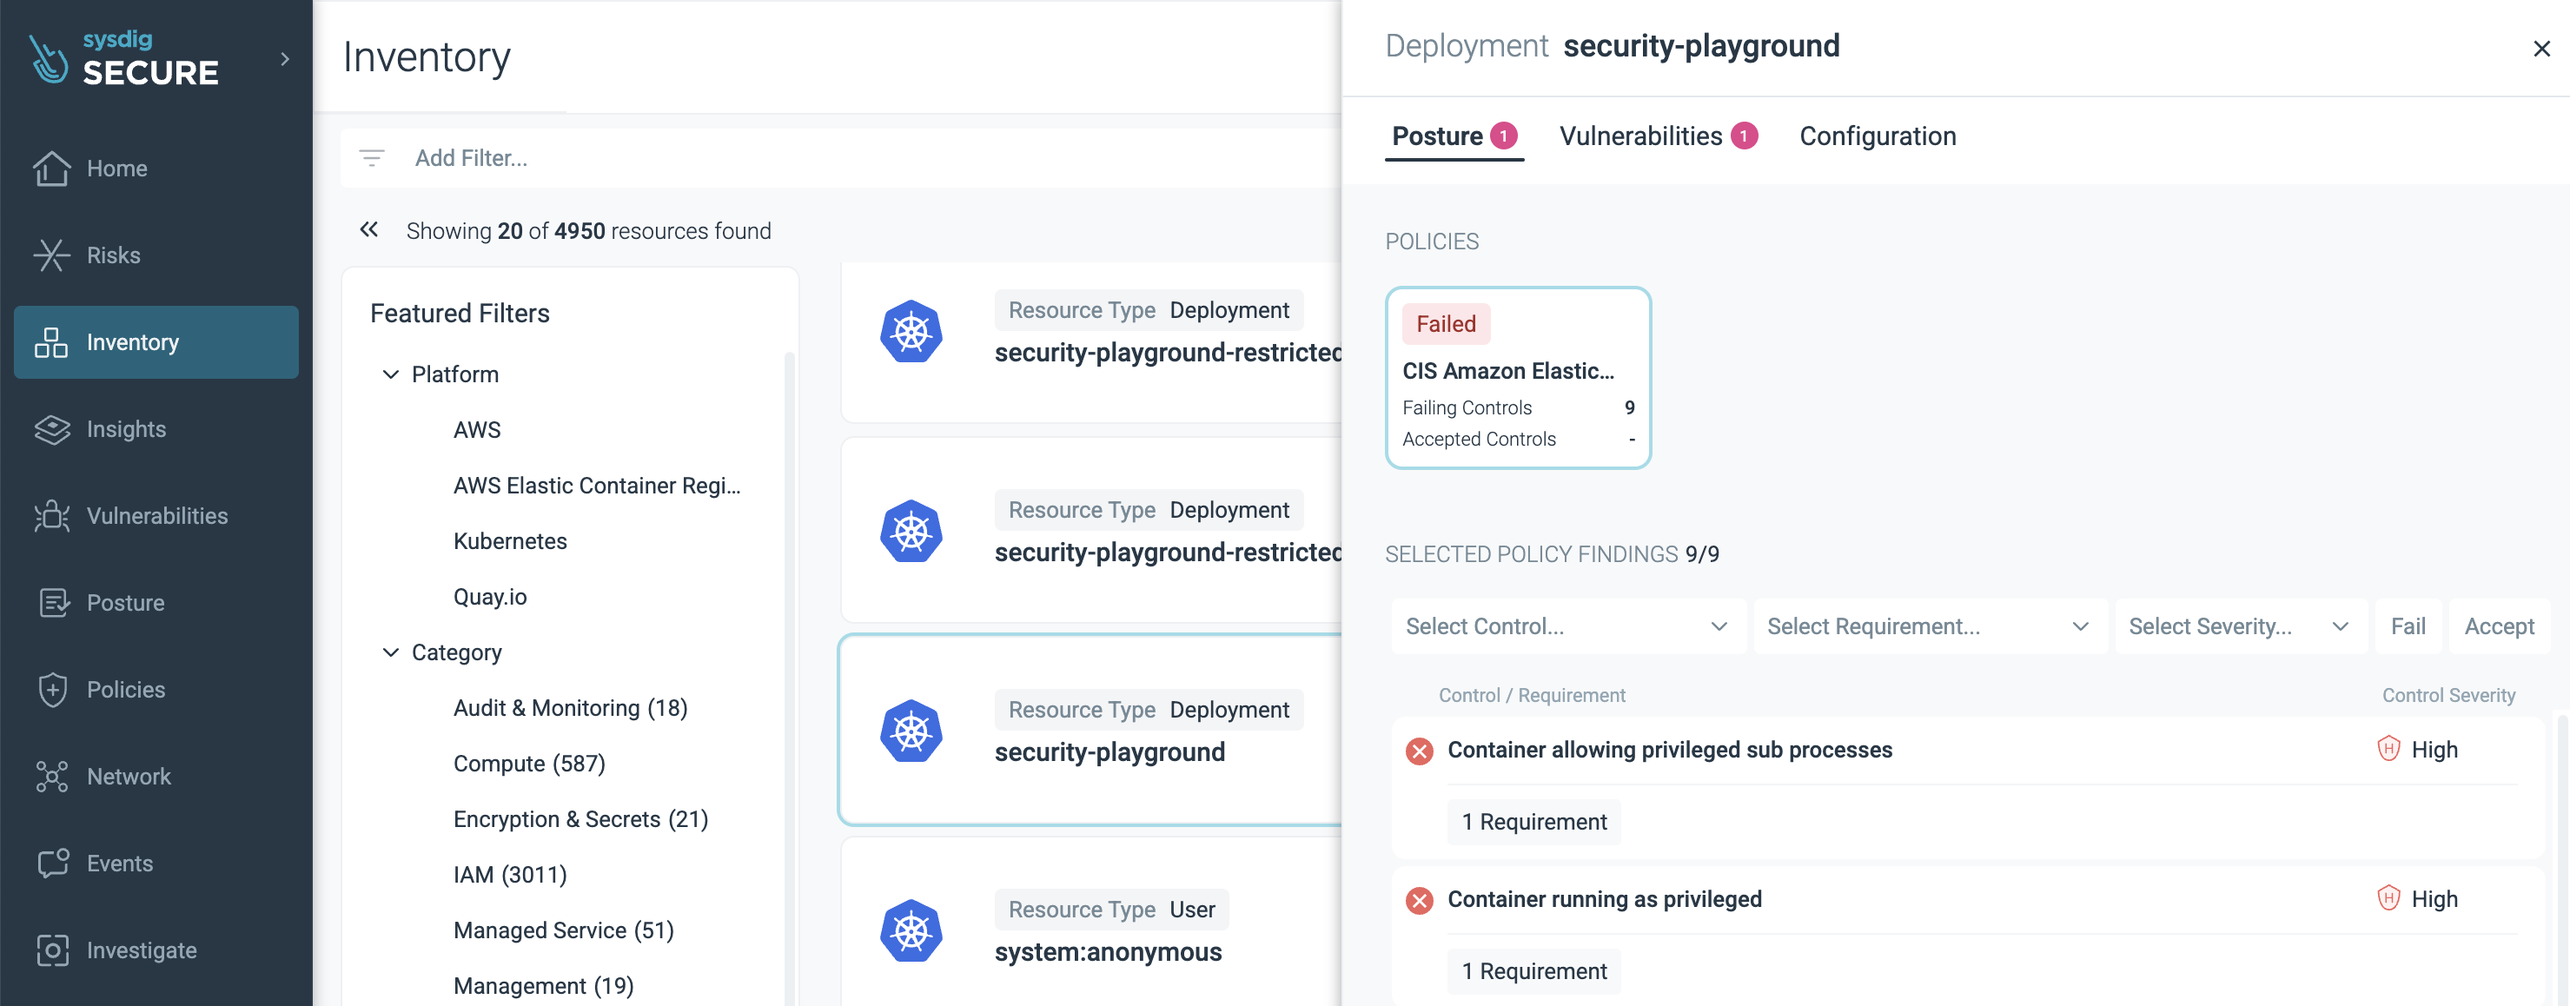
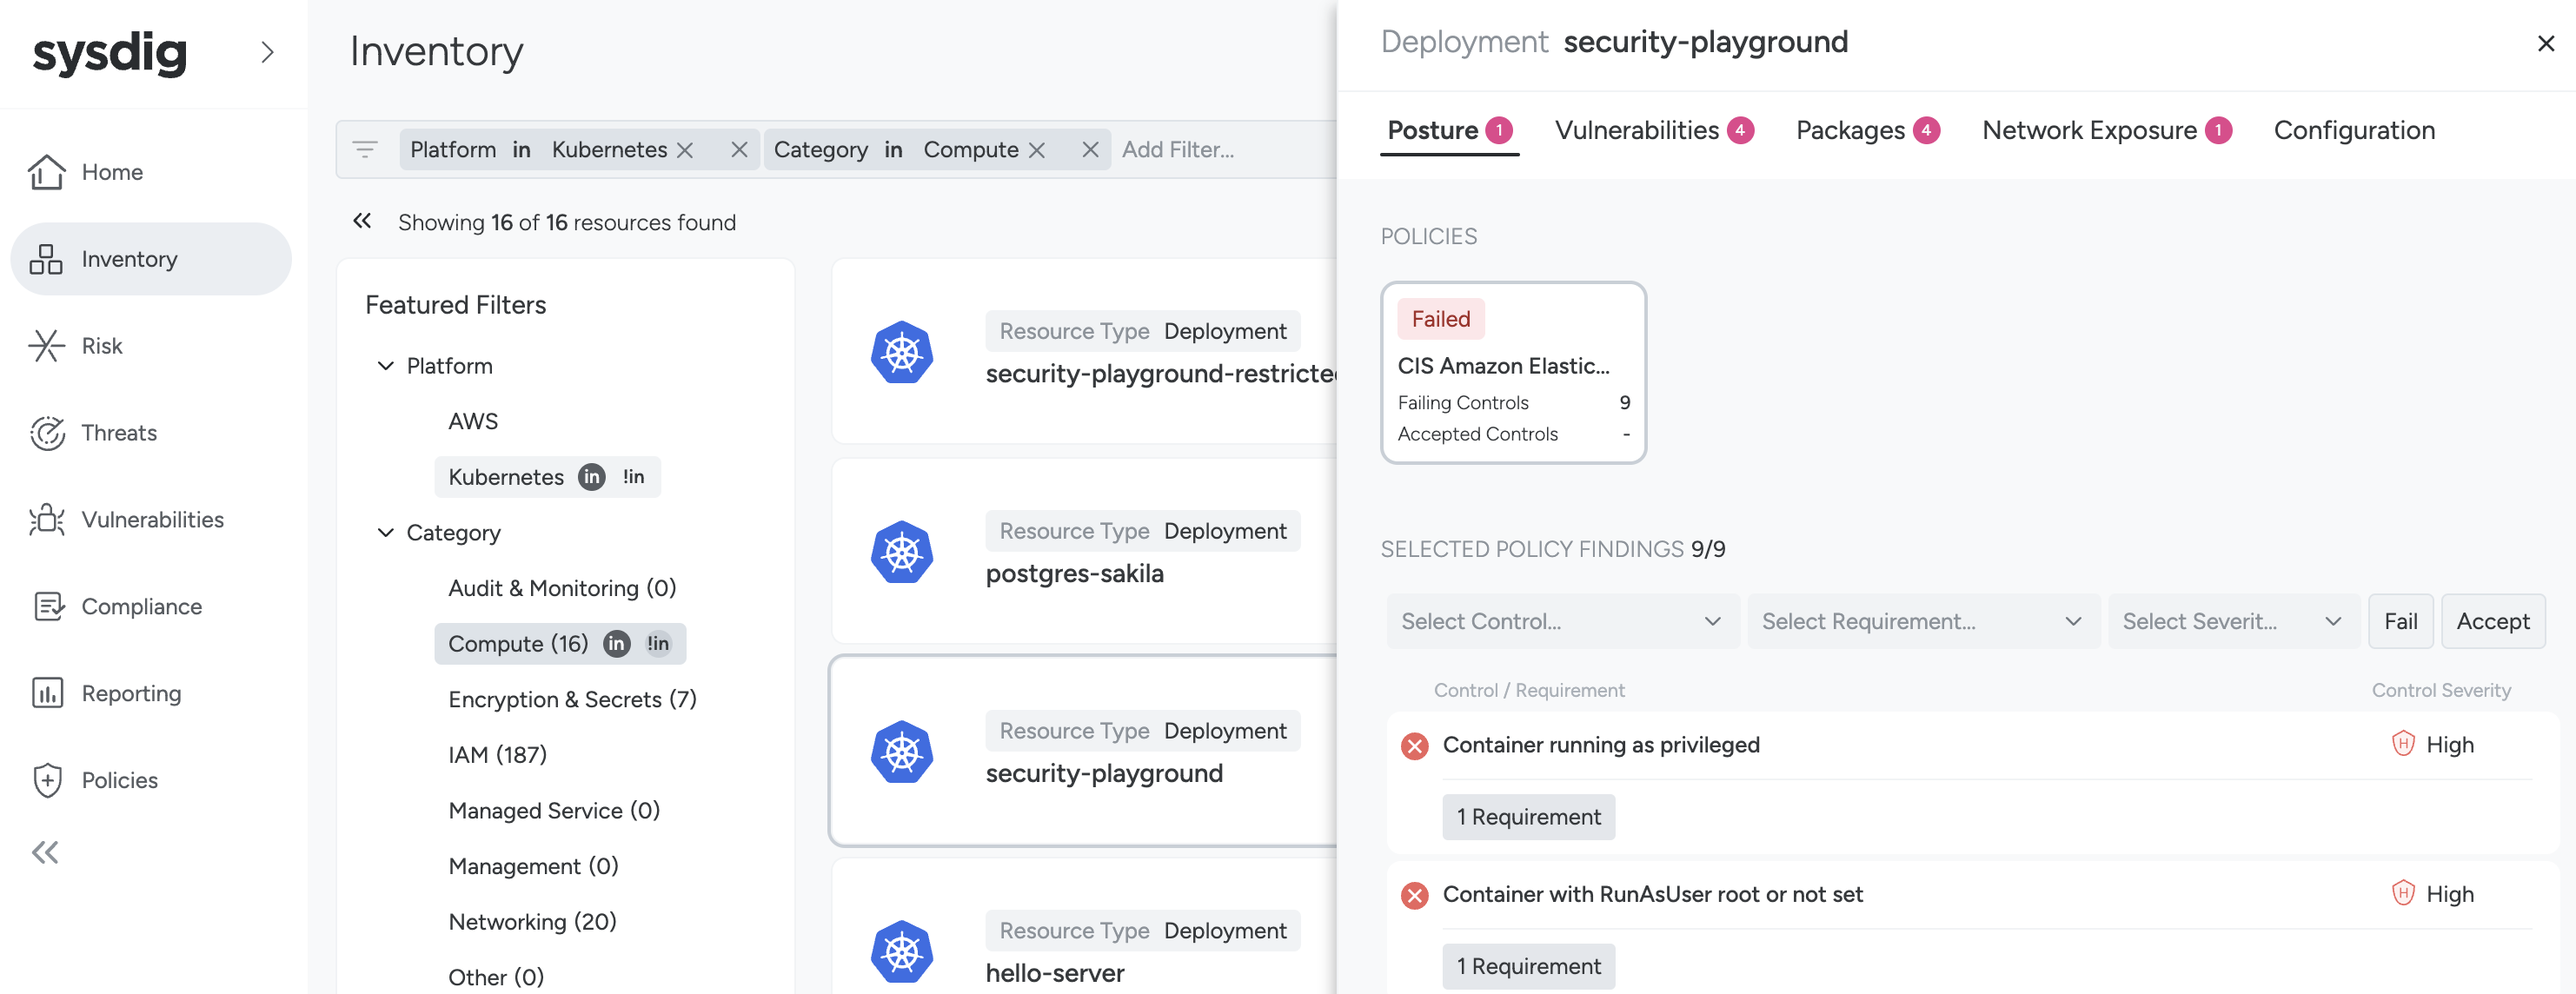
Updated to reflect new UI

diff --git a/Readme.md b/Readme.md
@@ -97,9 +97,8 @@ In addition to our 'traditional' Rules/Policies-based approach, there are three 
 
 ### Simulating an attack to generate Events within Sysdig
 
-1. In the Sysdig UI click on **Insights** on the left-hand side
-    1. This will likely be empty (we've never seen any suspicious activity for your new environment) and therefore show a **Welcome to Insights** placeholder screen
-    1. In case it isn't empty, then you can choose a time range at the bottom of the screen such as the last 3 or 12 hours so that you are focused only on the new events that you are generating now
+1. In the Sysdig UI hover over **Threats** on the left-hand side and click on Kubernetes under Activity
+    1. Pick the three hour time range (3H) on the bottom to show only the events you are about to generate. This should start out as empty.
 1. So lets's generate some Events!
     1. Click this link to open the (simple yet insecure) code for the security-playground service on your cluster in a new tab - https://github.com/jasonumiker-sysdig/example-scenarios/blob/main/docker-build-security-playground/app.py
         1. This Python app serves a **very** insecure REST API that will return the contents of any file on the filesystem, write any file to the filesystem and/or execute any file on the filesystem in response to simple **curl** commands
@@ -123,10 +122,10 @@ In addition to our 'traditional' Rules/Policies-based approach, there are three 
     1. Then go back to the Sysdig UI tab and refresh that tab in your browser
         1. You'll see a circular visualisation/heatmap of which clusters, namespaces and Pods the runtime events we've seen are coming from on the left
         1. And it also gives you either a summary of those events in the **Summary** tab or a full timeline of them in the **Events** tab on the right
-        1. ![](instruction-images/insights2.png)
+        1. ![](instruction-images/threats.png)
     1. Choose the Events tab on the right
     1. As you can see there are a number of events that Sysdig picked up here - in real-time!
-        1. ![](instruction-images/insights3.png)
+        1. ![](instruction-images/threats2.png)
     1. If you click into the the top **Detect outbound connections to common miner pools** and then scroll through it you'll see all the context of that event including details of the process, the network, the AWS account, the Kubernetes cluster/namespace/deployment, the host as well as the container
        1. In particular the process tree view shows us that our Python app (gunicorn) launched a shell that launched the crypto miner xmrig - that looks suspicious!
        1. ![](instruction-images/processtree.png)
@@ -223,7 +222,7 @@ If we also add in Sysdig enforcing that any Container Drift is prevented (that n
 * Go to **Policies** -> **Runtime Policies** and then look at **security-playground-restricted-nodrift** - Note that rather than just detecting drift (as in the other Namespaces) we are blocking it if the workload is in the **security-playground-restricted-nodrift** Namespace
     * And we have a another copy of our security-playground-restricted service running there on a different HostPort
 * Run **./example-curls-restricted-nodrift.sh** which runs all those same curls but against a workload that is both restricted like the last example but also has Sysdig preventing Container Drift (rather than just detecting it)
-    1. If you look at the resulting Events in our Insights UI you'll see the Drift was **prevented** rather than just detected this time
+    1. If you look at the resulting Events in our Threats UI you'll see the Drift was **prevented** rather than just detected this time
     1. ![](instruction-images/driftprevented.png)
 
 And, we also can now block instead of just detecting Malware.
@@ -231,7 +230,7 @@ To see that:
 * Go to **Policies** -> **Runtime Policies** and then look at **security-playground-restricted-nomalware** - Note that rather than just detecting malware (as in the other Namespaces) we are blocking it if the workload is in the **security-playground-restricted-nomalware** Namespace
     * And we have a another copy of our security-playground-restricted service running there on a different HostPort
 * Run **./example-curls-restricted-nomalware.sh** which runs all those same curls but against a workload that is both restricted but also has Sysdig preventing malware (rather than just detecting it) (but not blocking Container Drift - as we want to show that the malware tries to run so we can block it with that)
-    1. If you look at the resulting Events in our Insights UI you'll see the Malware was **prevented** from running rather than just detected this time
+    1. If you look at the resulting Events in our Threats UI you'll see the Malware was **prevented** from running rather than just detected this time
     1. ![](instruction-images/malware.png)
 
 So, as you can see, a combination of fixing the posture of the workload as well as Sysdig's Container Drift and Malware Detection goes a **long** way to preventing so many common attacks - even against workload with such critical vulnerabilities!
@@ -328,7 +327,7 @@ This is because when you assign an AWS IAM Role to a Pod via things like IRSA it
 
 On the host side you'll see many **Drift Detections** which will include the commands being run against AWS - and which we could have blocked rather than just detected with Container Drift. This is a good reason to not include CLIs like the AWS one in your images as well! ![](instruction-images/s3drift.png)
 
-But on the AWS API side (go to Insights -> Cloud Activity) you'll see that the protections against this bucket being made public were removed as well as the new Bucket Policy (making them public) were subsequently applied as well!
+But on the AWS API side (go to Threats -> Cloud Activity) you'll see that the protections against this bucket being made public were removed as well as the new Bucket Policy (making them public) were subsequently applied as well!
 
 ![](instruction-images/s3cloudevents.png)
 ![](instruction-images/s3cloudevents2.png)
@@ -351,7 +350,7 @@ Sysdig has an integrated solution for both (Linux) host as well as container vul
 
 ### Runtime Vulnerability Scanning
 To explore Sysdig's runtime vulnerability scanning:
-1. Go to the Sysdig browser tab and go to **Vulnerabilities** on the left and then **Runtime**.
+1. Go to the Sysdig browser tab and go to **Vulnerabilities** on the left and then **Runtime** under Findings.
     1. This is a list of all of the running containers in your environment within the last 15 minutes as well as all the hosts/Nodes that our agent is installed on
     1. It is automatically sorted by severity for you - so the container image on top is the most important to fix (based on the quantity and severity of the In Use vulnerabilities)
     1. ![](instruction-images/vuln1.png)
@@ -392,7 +391,7 @@ Sysdig can ensure you are compliant with many common standards such as CIS, NIST
 The Center for Internet Security (CIS) publishes a security benchmark for many common resources - including EKS. Learn more at https://www.cisecurity.org/benchmark/kubernetes. We'll be looking at your cluster and its workloads to see if they are compliant with that standard in this module.
 
 1. Go to the Sysdig tab in your browser
-1. Go to **Posture** then **Compliance**
+1. Hover over **Compliance** on the left navigation pane and then click **Overview**
 1. We have used our [Team and Zone-based authorization](https://docs.sysdig.com/en/docs/sysdig-secure/policies/zones/) so that your Team can only see your own cluster/Zone.
 1. Click on the **CIS Amazon Elastic Kubernetes Service Benchmark** under your heading (this is the only compliance standard we've set against your Zone here - but we have many others such as NIST, SOC2, PCI-DSS, etc.)
     1. ![](instruction-images/posture1.png)
@@ -419,15 +418,12 @@ This is the same information but from the perspective of the resource rather tha
 Here we are looking at the security-playground deployment and seeing how it is doing first for its posture.
 ![](instruction-images/inventory1.png)
 
-You can even click through to the same remediation steps right in this view too.
-![](instruction-images/inventory4.png)
-![](instruction-images/inventory5.png)
-
-Inventory also cross-references it with the vulnerability information in the next tab.
+You can even click through to the same remediation steps right in this view too (hover your mouse over the control to see View Remediation).
 ![](instruction-images/inventory2.png)
-
-Finally, one of the common things we are is "How can I see what workloads have a particular CVE?" This filter is not possible in the Vulnerability section (those filters are more about the workloads than the vulnerabilities) - but it is possible here in Inventory.
 ![](instruction-images/inventory3.png)
+
+Finally, one of the common things we are is "How can I see what workloads have a particular CVE?" This filter is not possible in the Vulnerability section (those filters are more about the workloads than the vulnerabilities) - but it is possible here in Inventory. Put in a filter for **Vulnerability in CVE-2023-45853** as an example.
+![](instruction-images/inventory4.png)
 
 And, as a reminder, you all are in one Sysdig account but are only seeing your own clusters/workloads. So this is something we can easily restrict via our built-in Authorization (via Zones tied to Teams) so that people will only see as much or as little of the environment in Sysdig as you'd like.
 
